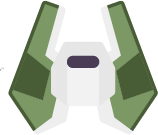
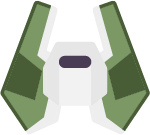
assets upgrade

diff --git a/Classes/HelloWorldScene.cpp b/Classes/HelloWorldScene.cpp
@@ -98,21 +98,6 @@ bool HelloWorld::init()
     ship1->setTag(1);
     worldLayer->addChild(ship1);
     
-    ship1damage1 = CCSprite::create("playerShip2_damage1.png");
-    ship1damage1->setPosition(CCPoint(56, 38));
-    ship1damage1->setVisible(false);
-    ship1->addChild(ship1damage1);
-    
-    ship1damage2 = CCSprite::create("playerShip2_damage2.png");
-    ship1damage2->setPosition(CCPoint(56, 38));
-    ship1damage2->setVisible(false);
-    ship1->addChild(ship1damage2);
-    
-    ship1damage3 = CCSprite::create("playerShip2_damage3.png");
-    ship1damage3->setPosition(CCPoint(56, 38));
-    ship1damage3->setVisible(false);
-    ship1->addChild(ship1damage3);
-    
     ship1shield = CCSprite::create("shield1.png");
     ship1shield->setPosition(CCPoint(56, 38));
     ship1shield->setVisible(false);
@@ -134,21 +119,6 @@ bool HelloWorld::init()
     ship2->setPosition(CCPoint(2584, 2584));
     ship2->setTag(2);
     worldLayer->addChild(ship2);
-    
-    ship2damage1 = CCSprite::create("playerShip2_damage1.png");
-    ship2damage1->setPosition(CCPoint(56, 38));
-    ship2damage1->setVisible(false);
-    ship2->addChild(ship2damage1);
-    
-    ship2damage2 = CCSprite::create("playerShip2_damage2.png");
-    ship2damage2->setPosition(CCPoint(56, 38));
-    ship2damage2->setVisible(false);
-    ship2->addChild(ship2damage2);
-    
-    ship2damage3 = CCSprite::create("playerShip2_damage3.png");
-    ship2damage3->setPosition(CCPoint(56, 38));
-    ship2damage3->setVisible(false);
-    ship2->addChild(ship2damage3);
     
     ship2shield = CCSprite::create("shield1.png");
     ship2shield->setPosition(CCPoint(56, 38));
@@ -214,7 +184,7 @@ bool HelloWorld::init()
     hudLayer->addChild(menuTurn);
     
     
-    cocos2d::extension::CCScale9Sprite* panel = cocos2d::extension::CCScale9Sprite::create("glassPanel.png");
+    cocos2d::extension::CCScale9Sprite* panel = cocos2d::extension::CCScale9Sprite::create("panel.png");
     panel->setContentSize(CCSize(1000, 150));
     panel->setPosition(CCPoint(visibleSize.width/2, visibleSize.height-150));
     hudLayer->addChild(panel);
@@ -226,7 +196,6 @@ bool HelloWorld::init()
     for (int n = 0; n < 5; n++)
     {
         CCSprite* squareShadow = CCSprite::create("square_shadow.png");
-        squareShadow->setScale(2);
         squareShadow->setPosition(CCPoint(visibleSize.width/2 - 200 - n*50, visibleSize.height-150));
         hudLayer->addChild(squareShadow);
     }
@@ -234,60 +203,49 @@ bool HelloWorld::init()
     for (int n = 0; n < 5; n++)
     {
         CCSprite* squareShadow = CCSprite::create("square_shadow.png");
-        squareShadow->setScale(2);
         squareShadow->setPosition(CCPoint(visibleSize.width/2 + 200 + n*50, visibleSize.height-150));
         hudLayer->addChild(squareShadow);
     }
     
-    squareBlue1 = CCSprite::create("squareBlue.png");
-    squareBlue1->setScale(2);
+    squareBlue1 = CCSprite::create("square_blue.png");
     squareBlue1->setPosition(CCPoint(visibleSize.width/2 - 200 - 0*50, visibleSize.height-150));
     hudLayer->addChild(squareBlue1);
     
-    squareBlue2 = CCSprite::create("squareBlue.png");
-    squareBlue2->setScale(2);
+    squareBlue2 = CCSprite::create("square_blue.png");
     squareBlue2->setPosition(CCPoint(visibleSize.width/2 - 200 - 1*50, visibleSize.height-150));
     hudLayer->addChild(squareBlue2);
     
-    squareBlue3 = CCSprite::create("squareBlue.png");
-    squareBlue3->setScale(2);
+    squareBlue3 = CCSprite::create("square_blue.png");
     squareBlue3->setPosition(CCPoint(visibleSize.width/2 - 200 - 2*50, visibleSize.height-150));
     hudLayer->addChild(squareBlue3);
     
-    squareBlue4 = CCSprite::create("squareBlue.png");
-    squareBlue4->setScale(2);
+    squareBlue4 = CCSprite::create("square_blue.png");
     squareBlue4->setPosition(CCPoint(visibleSize.width/2 - 200 - 3*50, visibleSize.height-150));
     hudLayer->addChild(squareBlue4);
     
-    squareBlue5 = CCSprite::create("squareBlue.png");
-    squareBlue5->setScale(2);
+    squareBlue5 = CCSprite::create("square_blue.png");
     squareBlue5->setPosition(CCPoint(visibleSize.width/2 - 200 - 4*50, visibleSize.height-150));
     hudLayer->addChild(squareBlue5);
     
     
     
-    squareGreen1 = CCSprite::create("squareGreen.png");
-    squareGreen1->setScale(2);
+    squareGreen1 = CCSprite::create("square_green.png");
     squareGreen1->setPosition(CCPoint(visibleSize.width/2 + 200 + 0*50, visibleSize.height-150));
     hudLayer->addChild(squareGreen1);
     
-    squareGreen2 = CCSprite::create("squareGreen.png");
-    squareGreen2->setScale(2);
+    squareGreen2 = CCSprite::create("square_green.png");
     squareGreen2->setPosition(CCPoint(visibleSize.width/2 + 200 + 1*50, visibleSize.height-150));
     hudLayer->addChild(squareGreen2);
     
-    squareGreen3 = CCSprite::create("squareGreen.png");
-    squareGreen3->setScale(2);
+    squareGreen3 = CCSprite::create("square_green.png");
     squareGreen3->setPosition(CCPoint(visibleSize.width/2 + 200 + 2*50, visibleSize.height-150));
     hudLayer->addChild(squareGreen3);
     
-    squareGreen4 = CCSprite::create("squareGreen.png");
-    squareGreen4->setScale(2);
+    squareGreen4 = CCSprite::create("square_green.png");
     squareGreen4->setPosition(CCPoint(visibleSize.width/2 + 200 + 3*50, visibleSize.height-150));
     hudLayer->addChild(squareGreen4);
     
-    squareGreen5 = CCSprite::create("squareGreen.png");
-    squareGreen5->setScale(2);
+    squareGreen5 = CCSprite::create("square_green.png");
     squareGreen5->setPosition(CCPoint(visibleSize.width/2 + 200 + 4*50, visibleSize.height-150));
     hudLayer->addChild(squareGreen5);
     
@@ -1326,15 +1284,12 @@ void HelloWorld::someOneGotHit(int victim)
                 break;
             case 3:
                 squareBlue4->setVisible(false);
-                ship1damage1->setVisible(true);
                 break;
             case 2:
                 squareBlue3->setVisible(false);
-                ship1damage2->setVisible(true);
                 break;
             case 1:
                 squareBlue2->setVisible(false);
-                ship1damage3->setVisible(true);
                 break;
             case 0:
                 squareBlue1->setVisible(false);
@@ -1359,15 +1314,12 @@ void HelloWorld::someOneGotHit(int victim)
                 break;
             case 3:
                 squareGreen4->setVisible(false);
-                ship2damage1->setVisible(true);
                 break;
             case 2:
                 squareGreen3->setVisible(false);
-                ship2damage2->setVisible(true);
                 break;
             case 1:
                 squareGreen2->setVisible(false);
-                ship2damage3->setVisible(true);
                 break;
             case 0:
                 squareGreen1->setVisible(false);
@@ -1465,15 +1417,12 @@ void HelloWorld::toggleHPUp(int ship)
                 break;
             case 4:
                 squareBlue4->setVisible(true);
-                ship1damage1->setVisible(false);
                 break;
             case 3:
                 squareBlue3->setVisible(true);
-                ship1damage2->setVisible(false);
                 break;
             case 2:
                 squareBlue2->setVisible(true);
-                ship1damage3->setVisible(false);
                 break;
             default:
                 break;
@@ -1494,15 +1443,12 @@ void HelloWorld::toggleHPUp(int ship)
                 break;
             case 4:
                 squareGreen4->setVisible(true);
-                ship2damage1->setVisible(false);
                 break;
             case 3:
                 squareGreen3->setVisible(true);
-                ship2damage2->setVisible(false);
                 break;
             case 2:
                 squareGreen2->setVisible(true);
-                ship2damage3->setVisible(false);
                 break;
             default:
                 break;
